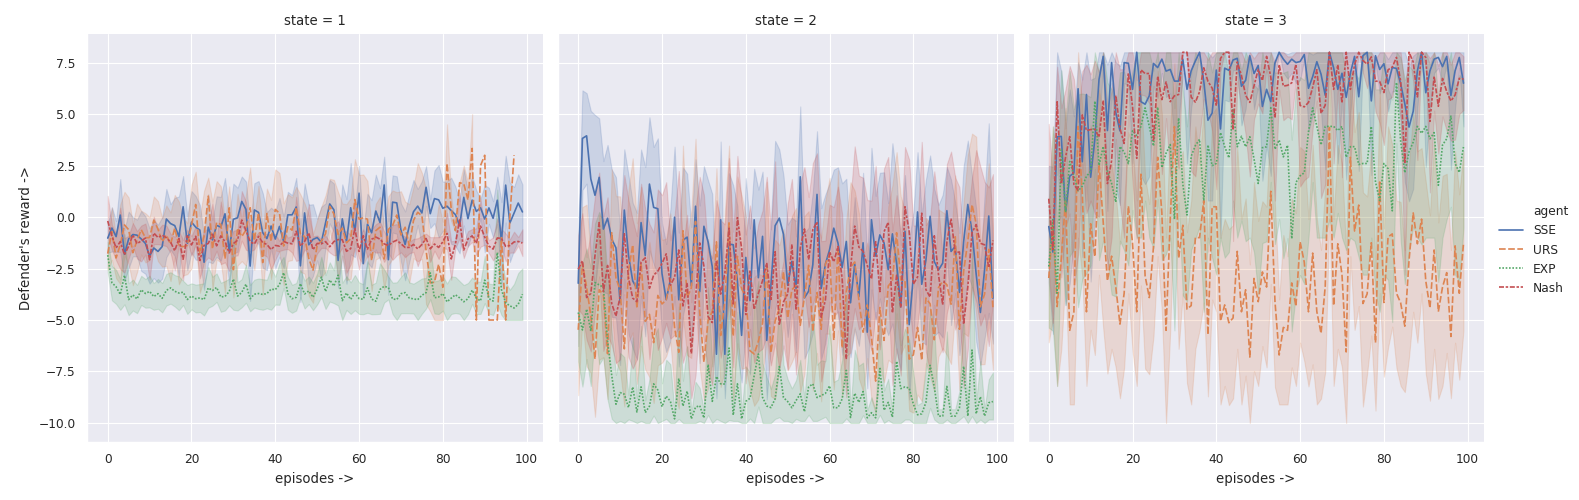
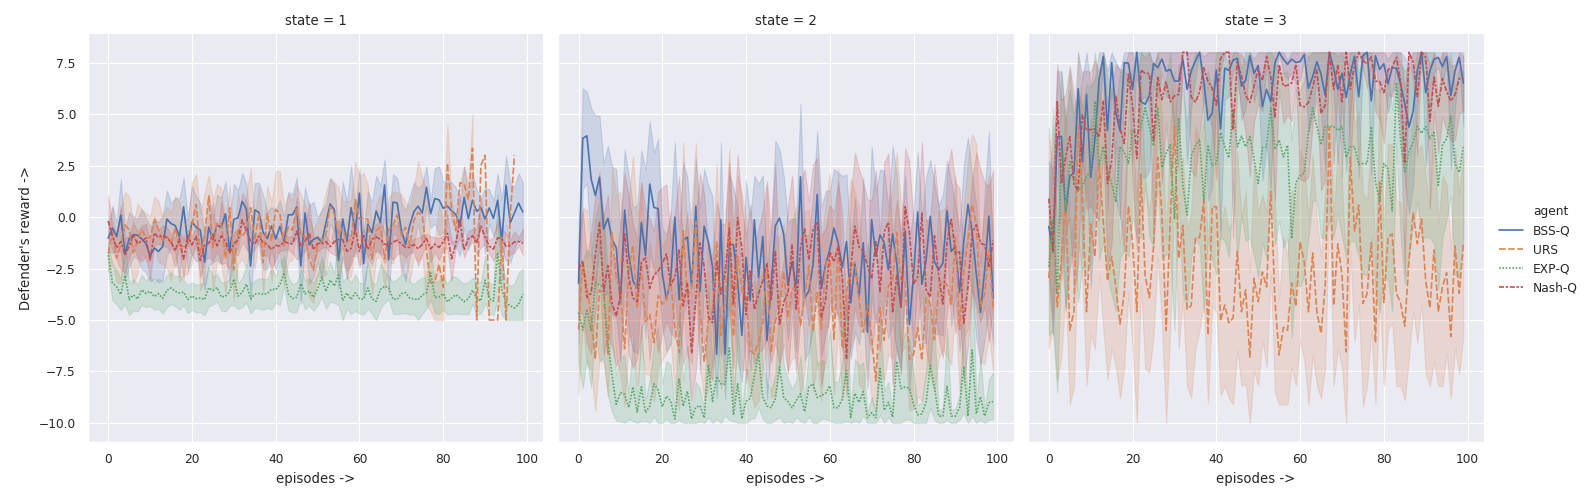
Refactoring changes to code.

diff --git a/markov_games/plot_values.py b/markov_games/plot_values.py
@@ -30,15 +30,24 @@ def get_data(agent="SSE", data_len=100):
         open("outputs/exp_data_{}Learner.pickle".format(agent), "rb")
     )
 
+    legends = {
+        "URS": "URS",
+        "SSE": "BSS-Q"
+    }
+
     state_rewards = []
     for trial in range(len(state_rewards_for_D)):
         for state, reward_list in state_rewards_for_D[trial].items():
             for eps in range(min(data_len, len(reward_list))):
                 try:
-                    state_rewards.append([agent, state, trial, eps, reward_list[eps]])
+                    agent_name = legends[agent]
+                except KeyError:
+                    agent_name = "{}-Q".format(agent)
+                try:
+                    state_rewards.append([agent_name, state, trial, eps, reward_list[eps]])
                 except KeyError:
                     state_rewards[state] = [
-                        [agent, state, trial, eps, reward_list[eps]]
+                        [agent_name, state, trial, eps, reward_list[eps]]
                     ]
 
     return state_rewards

diff --git a/markov_games/environments/ids_place_game.py b/markov_games/environments/ids_place_game.py
@@ -60,12 +60,7 @@ class Game(object):
             ],
         ]
 
-        self.opt_pi = {
-            0: {"pi_lost": 1.0},
-            1: {"pi_mon-LDAP": 0.6, "pi_no-mon": 0.4},
-            2: {"pi_mon-FTP": 0.461, "pi_mon-Web": 0.539, "pi_no-mon": 0.0,},
-            3: {"pi_mon-FTP": 1.0, "pi_no-mon": 0.0},
-        }
+        self.opt_pi = {}
 
     def get_start_state(self):
         return np.random.choice(self.start_S)

diff --git a/markov_bayesian_games/environments/mtd_web_apps/env.py b/markov_bayesian_games/environments/mtd_web_apps/env.py
@@ -70,6 +70,7 @@ class Game(object):
         return self.R_D[k] - 0.1 * self.switching_cost[s][next_s], self.R_A[k], next_s
 
     def is_end(self, s):
+        assert s in self.S
         if s in self.end_S:
             return True
         return False
